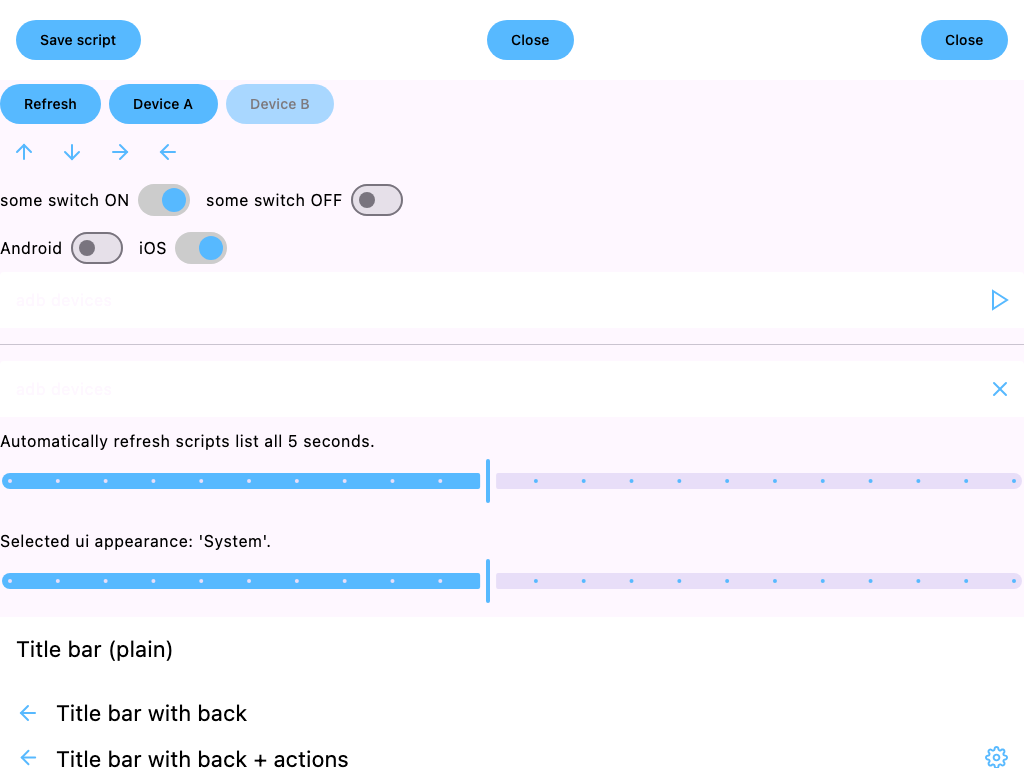
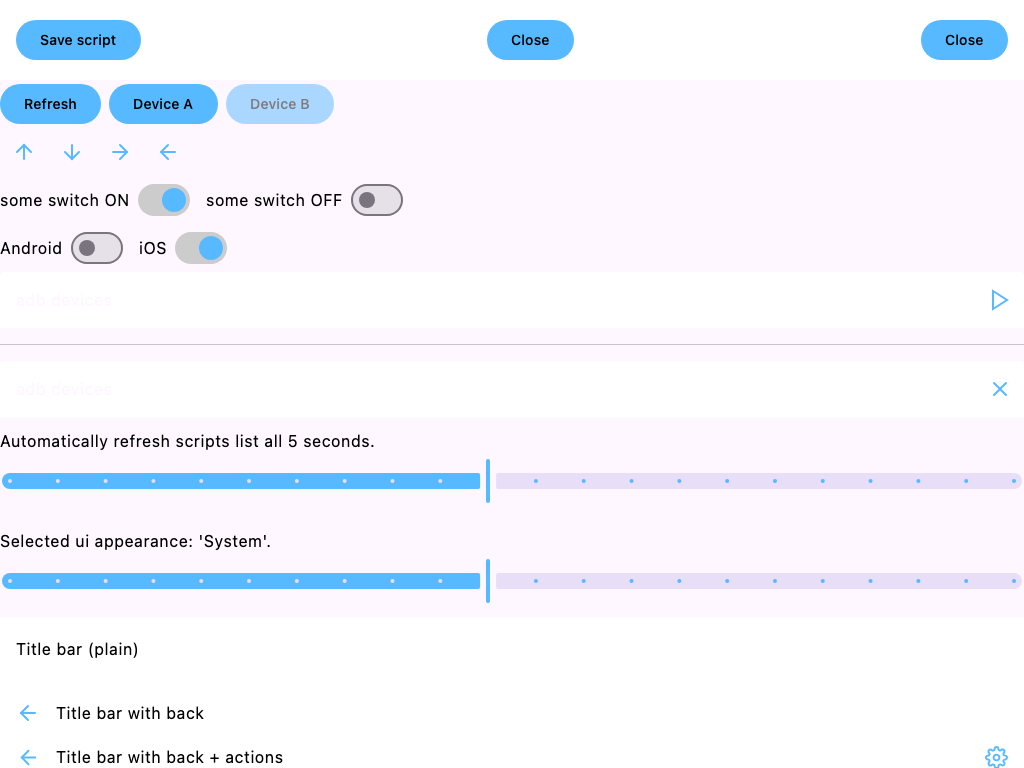
Fix/Improve

Changed region(s): [[0.0625, 0.9688, 0.3438, 1.0], [0.0312, 0.8125, 0.1562, 0.875], [0.0625, 0.9062, 0.25, 0.9375]]

diff --git a/composeApp/src/commonMain/kotlin/de/joz/appcommander/ui/misc/LabelledSwitch.kt b/composeApp/src/commonMain/kotlin/de/joz/appcommander/ui/misc/LabelledSwitch.kt
@@ -44,7 +44,10 @@ fun LabelledSwitch(
 		Text(
 			text = label,
 			modifier = textModifier,
-			style = MaterialTheme.typography.bodyLarge,
+			style =
+				MaterialTheme.typography.bodyLarge.copy(
+					color = MaterialTheme.colorScheme.onSurface,
+				),
 		)
 
 		Switch(
